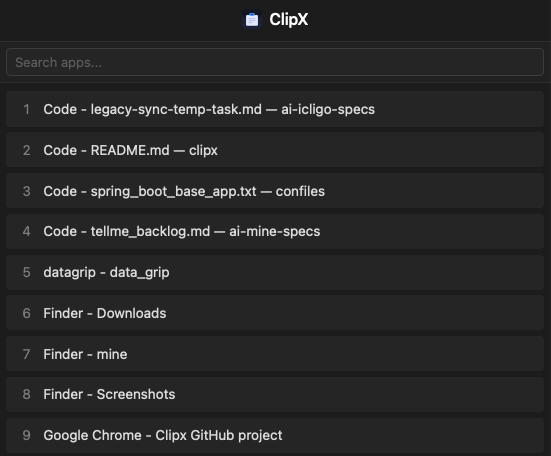
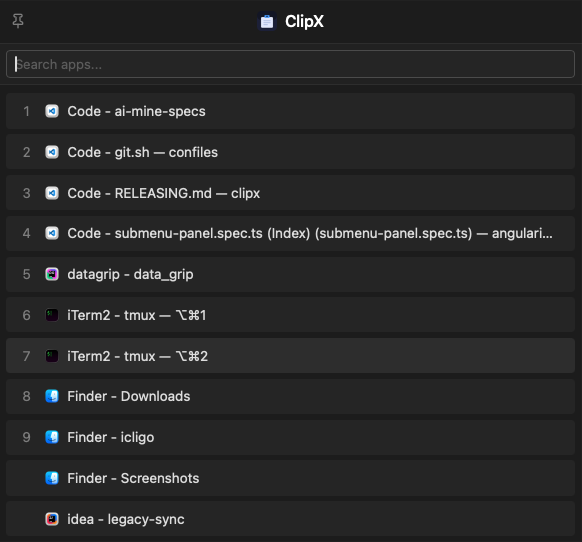
updates and bump version to v0.1.34

diff --git a/docs/index.html b/docs/index.html
@@ -3,8 +3,8 @@
 <head>
 <meta charset="utf-8">
 <meta name="viewport" content="width=device-width, initial-scale=1">
-<title>ClipX — local-first clipboard manager</title>
-<meta name="description" content="ClipX keeps every snippet you copy and brings it back the instant you need it. Local, fast, keyboard-first. macOS, Windows, Linux.">
+<title>ClipX — local-first clipboard manager & app switcher</title>
+<meta name="description" content="ClipX keeps every snippet you copy and brings it back the instant you need it, and a second hotkey lists every running app so you can jump straight to it. Local, fast, keyboard-first. macOS, Windows, Linux.">
 <link rel="icon" type="image/png" href="favicon.png">
 <link rel="preconnect" href="https://fonts.googleapis.com">
 <link rel="preconnect" href="https://fonts.gstatic.com" crossorigin>
@@ -53,6 +53,7 @@
     <div id="nav-links" style="display:flex; align-items:center; gap:clamp(14px,2.5vw,30px);">
       <a href="#workflow" style="font-family:'IBM Plex Mono',monospace; font-size:13px; color:#9a9ca3; text-decoration:none;">Workflow</a>
       <a href="#features" style="font-family:'IBM Plex Mono',monospace; font-size:13px; color:#9a9ca3; text-decoration:none;">Features</a>
+      <a href="#apps" style="font-family:'IBM Plex Mono',monospace; font-size:13px; color:#9a9ca3; text-decoration:none;">Apps</a>
       <a href="#privacy" style="font-family:'IBM Plex Mono',monospace; font-size:13px; color:#9a9ca3; text-decoration:none;">Privacy</a>
       <a href="https://github.com/adrianojlt/clipx" target="_blank" rel="noopener" style="font-family:'IBM Plex Mono',monospace; font-size:13px; color:#9a9ca3; text-decoration:none;">GitHub</a>
       <a href="https://github.com/adrianojlt/clipx/releases" target="_blank" rel="noopener" style="font-family:'IBM Plex Mono',monospace; font-size:13px; font-weight:500; color:#0a0a0c; background:#4f8ff0; text-decoration:none; padding:8px 16px; border-radius:7px;">Download</a>
@@ -65,19 +66,25 @@
     <div style="max-width:1200px; margin:0 auto; display:grid; grid-template-columns:repeat(auto-fit,minmax(340px,1fr)); gap:clamp(40px,5vw,72px); align-items:center; position:relative;">
       <div data-reveal style="opacity:1; animation:clipx-rise .7s cubic-bezier(.16,1,.3,1) both;">
         <div style="display:inline-flex; align-items:center; gap:9px; font-family:'IBM Plex Mono',monospace; font-size:12px; letter-spacing:0.16em; text-transform:uppercase; color:#6b6d75; border:1px solid #1f2127; border-radius:999px; padding:5px 13px; margin-bottom:26px;">
-          <span style="width:6px; height:6px; border-radius:50%; background:#4f8ff0;"></span>Clipboard manager · macOS · Windows · Linux
+          <span style="width:6px; height:6px; border-radius:50%; background:#4f8ff0;"></span>Clipboard · App switcher · macOS · Windows · Linux
         </div>
-        <h1 style="font-size:clamp(2.5rem,5.6vw,4.6rem); line-height:1.02; font-weight:600; letter-spacing:-0.03em; margin-bottom:24px;">Your clipboard,<br>one keystroke away.</h1>
-        <p style="font-size:clamp(1.05rem,1.5vw,1.3rem); line-height:1.55; color:#a8aab1; max-width:30ch; margin-bottom:34px;">ClipX keeps every snippet you copy and brings it back the instant you need it. Local, fast, keyboard-first.</p>
+        <h1 style="font-size:clamp(2.5rem,5.6vw,4.6rem); line-height:1.02; font-weight:600; letter-spacing:-0.03em; margin-bottom:24px;">Your clipboard<br>and your apps,<br>one keystroke away.</h1>
+        <p style="font-size:clamp(1.05rem,1.5vw,1.3rem); line-height:1.55; color:#a8aab1; max-width:34ch; margin-bottom:34px;">ClipX keeps every snippet you copy and brings it back the instant you need it. A second hotkey lists every running app, so you can find and jump to one just as fast. Local, fast, keyboard-first.</p>
         <div style="display:flex; flex-wrap:wrap; gap:12px; align-items:center;">
           <a href="https://github.com/adrianojlt/clipx/releases" target="_blank" rel="noopener" style="display:inline-flex; align-items:center; gap:9px; font-weight:500; font-size:15px; color:#0a0a0c; background:#4f8ff0; text-decoration:none; padding:13px 22px; border-radius:9px; box-shadow:0 8px 24px -8px rgba(79,143,240,0.6);">Download ClipX
             <span style="font-family:'IBM Plex Mono',monospace; font-size:12px; opacity:.7;">↓</span>
           </a>
           <a href="https://github.com/adrianojlt/clipx" target="_blank" rel="noopener" style="display:inline-flex; align-items:center; gap:9px; font-weight:500; font-size:15px; color:#d7d8db; background:transparent; text-decoration:none; padding:13px 22px; border-radius:9px; border:1px solid #2a2c33;">View on GitHub</a>
         </div>
-        <div style="margin-top:30px; display:flex; align-items:center; gap:10px; font-family:'IBM Plex Mono',monospace; font-size:13px; color:#6b6d75;">
-          <span>Summon it anywhere with</span>
-          <span style="display:inline-flex; align-items:center; gap:5px; font-family:'IBM Plex Mono',monospace; font-size:12.5px; font-weight:500; color:#d7d8db; background:#17181c; border:1px solid #2f323a; border-bottom-color:#23252b; border-radius:6px; padding:4px 9px;">⌘ Space</span>
+        <div style="margin-top:30px; display:flex; flex-direction:column; gap:10px; font-family:'IBM Plex Mono',monospace; font-size:13px; color:#6b6d75;">
+          <div style="display:flex; align-items:center; gap:10px;">
+            <span>Clipboard history</span>
+            <span style="display:inline-flex; align-items:center; gap:5px; font-family:'IBM Plex Mono',monospace; font-size:12.5px; font-weight:500; color:#d7d8db; background:#17181c; border:1px solid #2f323a; border-bottom-color:#23252b; border-radius:6px; padding:4px 9px;">⌘ Space</span>
+          </div>
+          <div style="display:flex; align-items:center; gap:10px;">
+            <span>Running apps</span>
+            <span style="display:inline-flex; align-items:center; gap:5px; font-family:'IBM Plex Mono',monospace; font-size:12.5px; font-weight:500; color:#d7d8db; background:#17181c; border:1px solid #2f323a; border-bottom-color:#23252b; border-radius:6px; padding:4px 9px;">⌃ ⌥ Esc</span>
+          </div>
         </div>
       </div>
 
@@ -178,9 +185,10 @@
       <div data-reveal style="opacity:1; animation:clipx-rise .7s cubic-bezier(.16,1,.3,1) both;">
         <div style="font-family:'IBM Plex Mono',monospace; font-size:12px; letter-spacing:0.18em; text-transform:uppercase; color:#6b6d75; margin-bottom:22px;">03 — Keyboard-first</div>
         <h2 style="font-size:clamp(1.9rem,3.6vw,3rem); line-height:1.1; font-weight:600; letter-spacing:-0.02em; margin-bottom:24px;">Built to run without your mouse.</h2>
-        <p style="font-size:clamp(1.05rem,1.4vw,1.2rem); line-height:1.6; color:#a8aab1; max-width:50ch; margin-bottom:34px;">Every action has a key. Open, search, copy, switch tabs, dismiss — your hands never leave home row. Every shortcut is configurable.</p>
+        <p style="font-size:clamp(1.05rem,1.4vw,1.2rem); line-height:1.6; color:#a8aab1; max-width:50ch; margin-bottom:34px;">Every action has a key. Open, search, copy, switch tabs, switch apps, dismiss — your hands never leave home row. Every shortcut is configurable.</p>
         <div style="display:flex; flex-direction:column; gap:1px; background:#1a1b1f; border:1px solid #1a1b1f; border-radius:10px; overflow:hidden;">
           <div style="background:#0d0e11; padding:15px 18px; display:flex; align-items:center; justify-content:space-between; gap:16px;"><span style="color:#c9cace; font-size:0.98rem;">Open ClipX anywhere</span><span style="display:inline-flex; gap:5px;"><span style="font-family:'IBM Plex Mono',monospace; font-size:12.5px; font-weight:500; color:#d7d8db; background:#17181c; border:1px solid #2f323a; border-bottom-color:#23252b; border-radius:6px; padding:4px 9px;">⌘</span><span style="font-family:'IBM Plex Mono',monospace; font-size:12.5px; font-weight:500; color:#d7d8db; background:#17181c; border:1px solid #2f323a; border-bottom-color:#23252b; border-radius:6px; padding:4px 9px;">Space</span></span></div>
+          <div style="background:#0d0e11; padding:15px 18px; display:flex; align-items:center; justify-content:space-between; gap:16px;"><span style="color:#c9cace; font-size:0.98rem;">List running apps</span><span style="display:inline-flex; gap:5px;"><span style="font-family:'IBM Plex Mono',monospace; font-size:12.5px; font-weight:500; color:#d7d8db; background:#17181c; border:1px solid #2f323a; border-bottom-color:#23252b; border-radius:6px; padding:4px 9px;">⌃</span><span style="font-family:'IBM Plex Mono',monospace; font-size:12.5px; font-weight:500; color:#d7d8db; background:#17181c; border:1px solid #2f323a; border-bottom-color:#23252b; border-radius:6px; padding:4px 9px;">⌥</span><span style="font-family:'IBM Plex Mono',monospace; font-size:12.5px; font-weight:500; color:#d7d8db; background:#17181c; border:1px solid #2f323a; border-bottom-color:#23252b; border-radius:6px; padding:4px 9px;">Esc</span></span></div>
           <div style="background:#0d0e11; padding:15px 18px; display:flex; align-items:center; justify-content:space-between; gap:16px;"><span style="color:#c9cace; font-size:0.98rem;">Quick copy first results</span><span style="display:inline-flex; gap:5px;"><span style="font-family:'IBM Plex Mono',monospace; font-size:12.5px; font-weight:500; color:#d7d8db; background:#17181c; border:1px solid #2f323a; border-bottom-color:#23252b; border-radius:6px; padding:4px 9px;">1</span><span style="font-family:'IBM Plex Mono',monospace; font-size:12.5px; color:#5d5f67; align-self:center;">–</span><span style="font-family:'IBM Plex Mono',monospace; font-size:12.5px; font-weight:500; color:#d7d8db; background:#17181c; border:1px solid #2f323a; border-bottom-color:#23252b; border-radius:6px; padding:4px 9px;">5</span></span></div>
           <div style="background:#0d0e11; padding:15px 18px; display:flex; align-items:center; justify-content:space-between; gap:16px;"><span style="color:#c9cace; font-size:0.98rem;">Switch Pinned / History / Sessions</span><span style="display:inline-flex; gap:5px;"><span style="font-family:'IBM Plex Mono',monospace; font-size:12.5px; font-weight:500; color:#d7d8db; background:#17181c; border:1px solid #2f323a; border-bottom-color:#23252b; border-radius:6px; padding:4px 9px;">⌘</span><span style="font-family:'IBM Plex Mono',monospace; font-size:12.5px; font-weight:500; color:#d7d8db; background:#17181c; border:1px solid #2f323a; border-bottom-color:#23252b; border-radius:6px; padding:4px 9px;">1 / 2 / 3</span></span></div>
           <div style="background:#0d0e11; padding:15px 18px; display:flex; align-items:center; justify-content:space-between; gap:16px;"><span style="color:#c9cace; font-size:0.98rem;">Dismiss instantly</span><span style="display:inline-flex; gap:5px;"><span style="font-family:'IBM Plex Mono',monospace; font-size:12.5px; font-weight:500; color:#d7d8db; background:#17181c; border:1px solid #2f323a; border-bottom-color:#23252b; border-radius:6px; padding:4px 9px;">Esc</span></span></div>
@@ -241,12 +249,17 @@
   </section>
 
   <!-- APP SWITCHER -->
-  <section style="padding:clamp(80px,12vh,150px) clamp(20px,4vw,48px); border-top:1px solid #131418; background:linear-gradient(180deg,#0a0a0c,#0c0d10,#0a0a0c);">
+  <section id="apps" style="padding:clamp(80px,12vh,150px) clamp(20px,4vw,48px); border-top:1px solid #131418; background:linear-gradient(180deg,#0a0a0c,#0c0d10,#0a0a0c);">
     <div style="max-width:1200px; margin:0 auto; display:grid; grid-template-columns:repeat(auto-fit,minmax(360px,1fr)); gap:clamp(40px,5vw,72px); align-items:center;">
       <div data-reveal style="opacity:1; animation:clipx-rise .7s cubic-bezier(.16,1,.3,1) both;">
-        <div style="font-family:'IBM Plex Mono',monospace; font-size:12px; letter-spacing:0.18em; text-transform:uppercase; color:#6b6d75; margin-bottom:22px;">06 — Bonus: app switcher</div>
-        <h2 style="font-size:clamp(1.9rem,3.6vw,3rem); line-height:1.1; font-weight:600; letter-spacing:-0.02em; margin-bottom:24px;">A second hotkey, for switching apps.</h2>
-        <p style="font-size:clamp(1.05rem,1.4vw,1.2rem); line-height:1.6; color:#a8aab1; max-width:50ch; margin-bottom:30px;">ClipX ships a separate global hotkey that opens a list of running apps. Type to filter by name, then activate with Enter, a number key, or a click. Same keyboard-first habit, applied to your whole desktop.</p>
+        <div style="font-family:'IBM Plex Mono',monospace; font-size:12px; letter-spacing:0.18em; text-transform:uppercase; color:#6b6d75; margin-bottom:22px;">06 — App switcher</div>
+        <h2 style="font-size:clamp(1.9rem,3.6vw,3rem); line-height:1.1; font-weight:600; letter-spacing:-0.02em; margin-bottom:24px;">List, find and reach any running app.</h2>
+        <p style="font-size:clamp(1.05rem,1.4vw,1.2rem); line-height:1.6; color:#a8aab1; max-width:50ch; margin-bottom:30px;">A second global hotkey opens every app you have running, each with its own icon. Type to filter by name, then activate with Enter, a number key, or a click. The same keyboard-first habit, applied to your whole desktop.</p>
+        <div style="display:flex; flex-direction:column; gap:14px; margin-bottom:30px;">
+          <div style="display:flex; gap:13px; align-items:flex-start;"><span style="font-family:'IBM Plex Mono',monospace; font-size:12px; color:#4f8ff0; margin-top:3px;">→</span><span style="font-size:1rem; line-height:1.5; color:#c9cace;">Real app icons next to every name, so you recognise the row before you read it.</span></div>
+          <div style="display:flex; gap:13px; align-items:flex-start;"><span style="font-family:'IBM Plex Mono',monospace; font-size:12px; color:#4f8ff0; margin-top:3px;">→</span><span style="font-size:1rem; line-height:1.5; color:#c9cace;">Hold the hotkey, glide the mouse onto a row, let go: that app comes forward. Release anywhere else and the list stays put.</span></div>
+          <div style="display:flex; gap:13px; align-items:flex-start;"><span style="font-family:'IBM Plex Mono',monospace; font-size:12px; color:#4f8ff0; margin-top:3px;">→</span><span style="font-size:1rem; line-height:1.5; color:#c9cace;">Ordered by frecency. The apps you switch to often and recently sit at the top, in reach of the number keys, and hold that spot for hours.</span></div>
+        </div>
         <div style="display:flex; flex-wrap:wrap; gap:12px; align-items:center;">
           <span style="font-family:'IBM Plex Mono',monospace; font-size:13px; color:#6b6d75;">Open list of apps</span>
           <span style="display:inline-flex; gap:6px;">
@@ -256,11 +269,11 @@
           </span>
         </div>
       </div>
-      <div data-reveal data-reveal-d="120" style="opacity:1; animation:clipx-rise .8s cubic-bezier(.16,1,.3,1) both;">
+      <div data-reveal data-reveal-d="120" style="opacity:1; animation:clipx-rise .8s cubic-bezier(.16,1,.3,1) both; position:relative;">
         <div style="border:1px solid #26282d; border-radius:12px; overflow:hidden; box-shadow:0 40px 90px -34px rgba(0,0,0,0.9); max-width:520px;">
-          <img src="assets/app-switcher.png" alt="ClipX app switcher list of running apps" style="display:block; width:100%; height:auto;">
+          <img src="assets/app-switcher.png" alt="ClipX app switcher listing running apps with their icons" style="display:block; width:100%; height:auto;">
         </div>
-        <div style="margin-top:14px; font-family:'IBM Plex Mono',monospace; font-size:12.5px; color:#6b6d75;">Activate with Enter, a number key, or a click.</div>
+        <div style="margin-top:14px; font-family:'IBM Plex Mono',monospace; font-size:12.5px; color:#6b6d75;">Most-used apps first. Enter, a number key, a click, or just release the hotkey.</div>
       </div>
     </div>
   </section>
@@ -271,9 +284,9 @@
       <div data-reveal style="opacity:1; animation:clipx-rise .7s cubic-bezier(.16,1,.3,1) both;">
         <div style="font-family:'IBM Plex Mono',monospace; font-size:12px; letter-spacing:0.18em; text-transform:uppercase; color:#6b6d75; margin-bottom:22px;">07 — Local-first</div>
         <h2 style="font-size:clamp(1.9rem,3.6vw,3rem); line-height:1.1; font-weight:600; letter-spacing:-0.02em; margin-bottom:24px;">Your clipboard never leaves the machine.</h2>
-        <p style="font-size:clamp(1.05rem,1.4vw,1.2rem); line-height:1.6; color:#a8aab1; max-width:52ch; margin-bottom:30px;">History is stored locally in a SQLite database on your disk. There's no account, no cloud sync, and no clipboard content sent anywhere. ClipX is a quiet local tool — what you copy stays with you.</p>
+        <p style="font-size:clamp(1.05rem,1.4vw,1.2rem); line-height:1.6; color:#a8aab1; max-width:52ch; margin-bottom:30px;">History is stored locally in a SQLite database on your disk, and so are the app switch counts behind the frecency ordering. There's no account, no cloud sync, and no clipboard content sent anywhere. ClipX is a quiet local tool — what you copy stays with you.</p>
         <div style="display:flex; flex-direction:column; gap:1px; background:#1a1b1f; border:1px solid #1a1b1f; border-radius:10px; overflow:hidden; max-width:440px;">
-          <div style="background:#0d0e11; padding:16px 18px; display:flex; align-items:center; gap:12px;"><span style="color:#4f8ff0; font-family:'IBM Plex Mono',monospace; font-size:13px;">✓</span><span style="color:#c9cace; font-size:0.98rem;">Stored on-device in SQLite</span></div>
+          <div style="background:#0d0e11; padding:16px 18px; display:flex; align-items:center; gap:12px;"><span style="color:#4f8ff0; font-family:'IBM Plex Mono',monospace; font-size:13px;">✓</span><span style="color:#c9cace; font-size:0.98rem;">Clipboard and app usage stored on-device in SQLite</span></div>
           <div style="background:#0d0e11; padding:16px 18px; display:flex; align-items:center; gap:12px;"><span style="color:#4f8ff0; font-family:'IBM Plex Mono',monospace; font-size:13px;">✓</span><span style="color:#c9cace; font-size:0.98rem;">No cloud dependency, no account</span></div>
           <div style="background:#0d0e11; padding:16px 18px; display:flex; align-items:center; gap:12px;"><span style="color:#4f8ff0; font-family:'IBM Plex Mono',monospace; font-size:13px;">✓</span><span style="color:#c9cace; font-size:0.98rem;">Nothing logged or sent off the machine</span></div>
         </div>
@@ -348,7 +361,7 @@
     <div style="position:absolute; bottom:-30%; left:50%; transform:translateX(-50%); width:80%; height:80%; background:radial-gradient(ellipse at center, rgba(79,143,240,0.1), transparent 65%); filter:blur(10px); pointer-events:none;"></div>
     <div data-reveal style="opacity:1; animation:clipx-rise .7s cubic-bezier(.16,1,.3,1) both; max-width:760px; margin:0 auto; text-align:center; position:relative;">
       <h2 style="font-size:clamp(2.2rem,5vw,4rem); line-height:1.05; font-weight:600; letter-spacing:-0.03em; margin-bottom:22px;">Stop copying the same thing twice.</h2>
-      <p style="font-size:clamp(1.05rem,1.5vw,1.25rem); line-height:1.55; color:#a8aab1; margin-bottom:36px;">Install ClipX, set your hotkey, and your clipboard history is always a keystroke away.</p>
+      <p style="font-size:clamp(1.05rem,1.5vw,1.25rem); line-height:1.55; color:#a8aab1; margin-bottom:36px;">Install ClipX, set your two hotkeys, and both your clipboard history and every running app are always a keystroke away.</p>
       <div style="display:flex; flex-wrap:wrap; gap:12px; justify-content:center;">
         <a href="https://github.com/adrianojlt/clipx/releases" target="_blank" rel="noopener" style="display:inline-flex; align-items:center; gap:9px; font-weight:500; font-size:15px; color:#0a0a0c; background:#4f8ff0; text-decoration:none; padding:14px 26px; border-radius:9px; box-shadow:0 8px 24px -8px rgba(79,143,240,0.6);">Download ClipX</a>
         <a href="https://github.com/adrianojlt/clipx" target="_blank" rel="noopener" style="display:inline-flex; align-items:center; gap:9px; font-weight:500; font-size:15px; color:#d7d8db; background:transparent; text-decoration:none; padding:14px 26px; border-radius:9px; border:1px solid #2a2c33;">View GitHub repository</a>
@@ -360,7 +373,7 @@
   <footer style="padding:34px clamp(20px,4vw,48px); border-top:1px solid #131418; display:flex; flex-wrap:wrap; align-items:center; justify-content:space-between; gap:16px;">
     <div style="display:flex; align-items:center; gap:10px;">
       <span style="width:11px; height:11px; border:1.5px solid #6b6d75; border-radius:2px; box-shadow:3px -3px 0 -1.5px #0a0a0c, 4.5px -4.5px 0 0 #4f8ff0;"></span>
-      <span style="font-family:'IBM Plex Mono',monospace; font-size:13px; color:#6b6d75;">ClipX — local-first clipboard manager</span>
+      <span style="font-family:'IBM Plex Mono',monospace; font-size:13px; color:#6b6d75;">ClipX — local-first clipboard manager & app switcher</span>
     </div>
     <div style="display:flex; gap:22px;">
       <a href="https://github.com/adrianojlt/clipx" target="_blank" rel="noopener" style="font-family:'IBM Plex Mono',monospace; font-size:13px; color:#6b6d75; text-decoration:none;">GitHub</a>

diff --git a/README.md b/README.md
@@ -23,7 +23,9 @@ A lightweight clipboard manager for desktop. It keeps track of text you copy so 
 - **Search** - Filter both pinned items and clipboard history instantly with the search box. Press `Command+F` (configurable) to jump to the search box from anywhere in the popup.
 - **Context menus** - Right-click a history or pinned item to pin it directly to a specific session.
 - **Quick copy keys** - Press `1` through `9` to copy the Nth item in the current tab (or activate a session in the Sessions tab) without touching the mouse.
-- **App switcher** - A separate global hotkey (default `Control+Option+Esc`, configurable in Settings) opens a list of currently open apps. Search by name, then press Enter or `1` through `9`, or click, to focus an app.
+- **App switcher** - A separate global hotkey (default `Control+Option+Esc`, configurable in Settings) opens a list of currently open apps, each with its icon. Search by name, then press Enter or `1` through `9`, or click, to focus an app.
+- **Hold to switch** - Keep the app switcher hotkey held down, move the mouse over a row, and release: that app is focused straight away. Release with the cursor anywhere else and the list simply stays open.
+- **Most-used apps first** - The app list is ordered by frecency, so apps you switch to often and recently sit at the top and stay within reach of the `1` through `9` keys. Usage counts are stored locally alongside the rest of your data.
 - **Configurable history size** - Choose how many entries to keep (up to 50) in Settings.
 - **Tab shortcuts** - Switch between Pinned, History, and Sessions tabs with configurable keyboard shortcuts (default Command+1 / Command+2 / Command+3).
 - **Resizable window** - Adjust the popup width and height in Settings.
